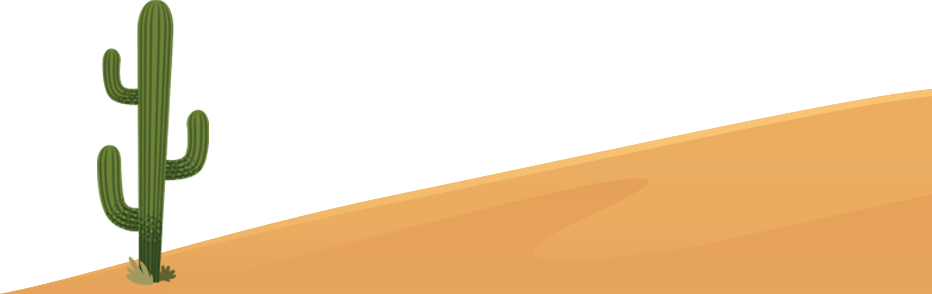
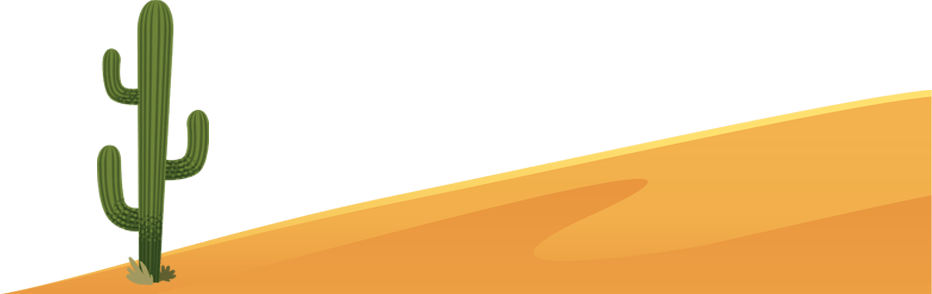
Editted home elements img

diff --git a/src/constants/PAGES.jsx b/src/constants/PAGES.jsx
@@ -23,7 +23,7 @@ const PAGES = [
     connector: {
       width: "100%",
       height: "7vh",
-      background: `linear-gradient(to bottom, #e6a45a, ${evenBG} )`,
+      background: `linear-gradient(to bottom, #ec9f43, ${evenBG} )`,
       position: "absolute",
     },
   },
